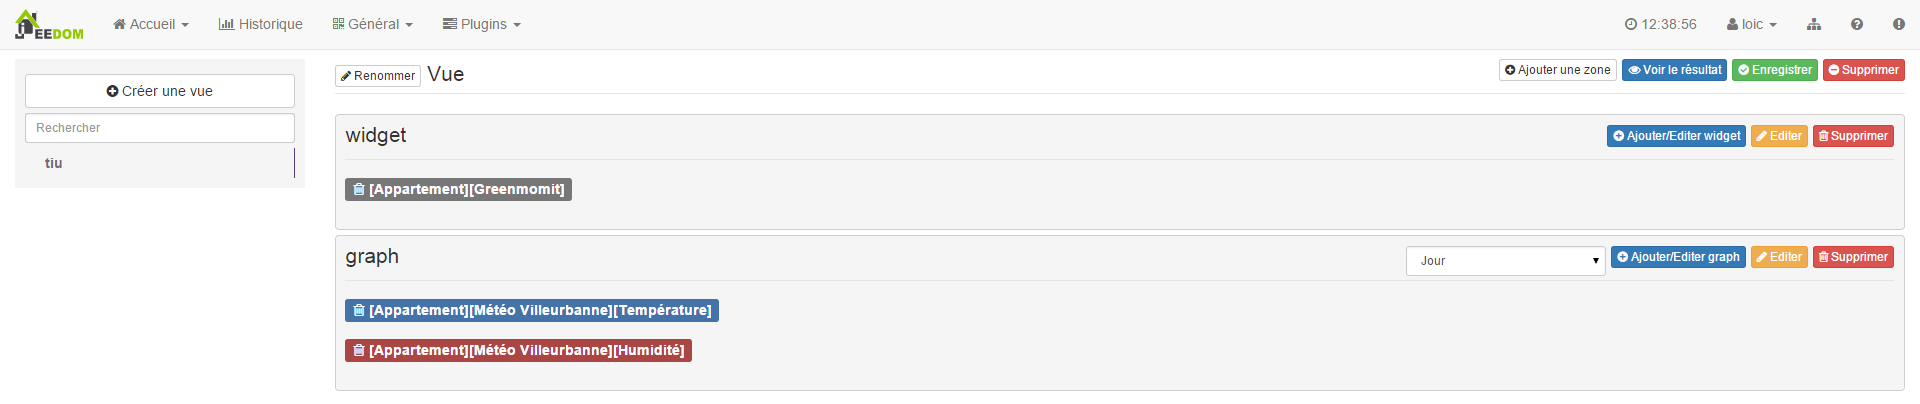
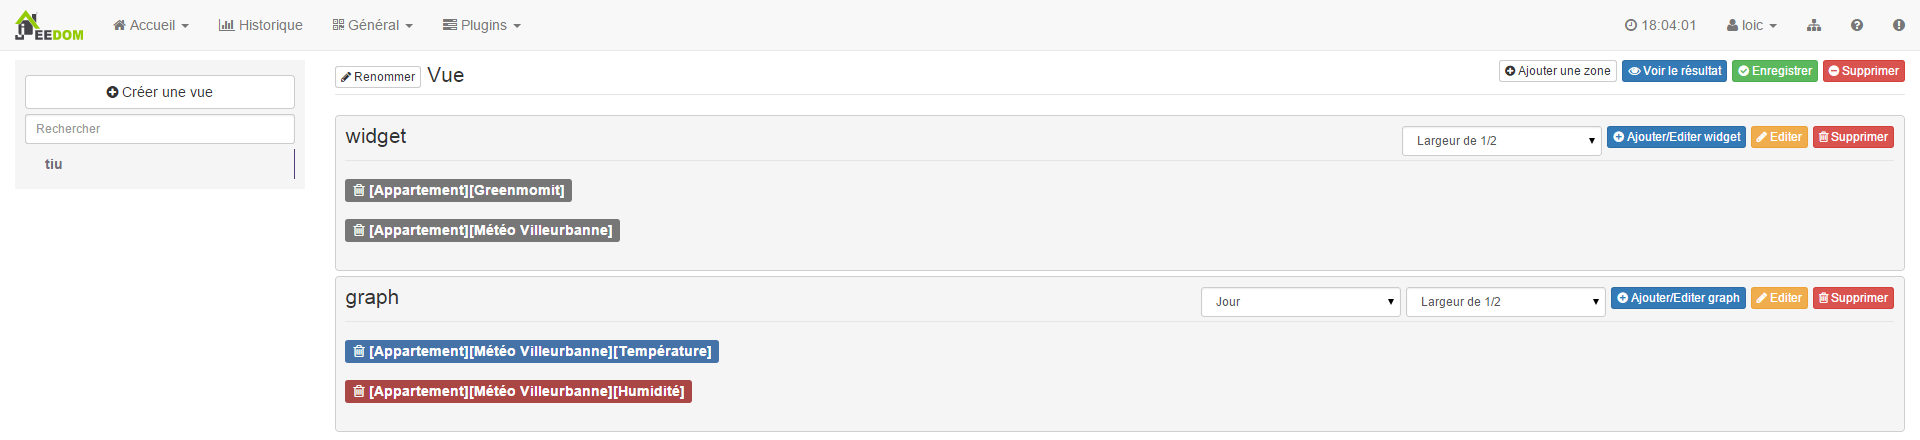
User can configure width zone on view

diff --git a/desktop/js/view_edit.js b/desktop/js/view_edit.js
@@ -289,7 +289,28 @@ function addEditviewZone(_viewZone) {
         div += '<a class="btn btn-danger btn-xs pull-right bt_removeviewZone"><i class="fa fa-trash-o"></i> Supprimer</a>';
         div += ' <a class="btn btn-warning btn-xs pull-right bt_editviewZone"><i class="fa fa-pencil"></i> Editer</a>';
         div += '<a class="btn btn-primary btn-xs pull-right bt_addViewData"><i class="fa fa-plus-circle"></i> Ajouter/Editer ' + init(_viewZone.type, 'widget') + '</a>';
-
+        div += '<select class="pull-right viewZoneAttr form-control input-sm" data-l1key="configuration" data-l2key="zoneCol" style="width : 200px;">';
+        if (init(_viewZone.configuration.zoneCol) == 12) {
+            div += '<option value="12" selected>{{Largeur de 1/1}}</option>';
+        } else {
+            div += '<option value="12">{{Largeur de 1/1}}</option>';
+        }
+        if (init(_viewZone.configuration.zoneCol) == 6) {
+            div += '<option value="6" selected>{{Largeur de 1/2}}</option>';
+        } else {
+            div += '<option value="6">{{Largeur de 1/2}}</option>';
+        }
+        if (init(_viewZone.configuration.zoneCol) == 4) {
+            div += '<option value="4" selected>{{Largeur de 1/3}}</option>';
+        } else {
+            div += '<option value="4">{{Largeur de 1/3}}</option>';
+        }
+         if (init(_viewZone.configuration.zoneCol) == 3) {
+            div += '<option value="3" selected>{{Largeur de 1/4}}</option>';
+        } else {
+            div += '<option value="3">{{Largeur de 1/4}}</option>';
+        }
+        div += '</select>';
         if (init(_viewZone.type, 'widget') == 'graph') {
             div += '<select class="pull-right viewZoneAttr form-control input-sm" data-l1key="configuration" data-l2key="dateRange" style="width : 200px;">';
             if (init(_viewZone.configuration.dateRange) == "30 min") {
@@ -324,7 +345,6 @@ function addEditviewZone(_viewZone) {
             }
             div += '</select>';
         }
-
         div += '</legend>';
         div += '<input style="display : none;" class="viewZoneAttr" data-l1key="type" value="' + init(_viewZone.type) + '">';
         div += '<div class="div_viewData"></div>';

diff --git a/core/js/view.class.js b/core/js/view.class.js
@@ -88,7 +88,7 @@ jeedom.view.handleViewAjax = function (_params) {
     var result = {html: '', scenario: [], cmd: [], eqLogic: []};
     for (var i in _params.view.viewZone) {
         var viewZone = _params.view.viewZone[i];
-        result.html += '<div>';
+        result.html += '<div class="col-xs-'+init(viewZone.configuration.zoneCol,12)+'">';
         result.html += '<legend style="color : #716b7a">' + viewZone.name + '</legend>';
         var div_id = 'div_viewZone' + viewZone.id;
         /*         * *****************viewZone widget***************** */

diff --git a/desktop/php/view.php b/desktop/php/view.php
@@ -35,7 +35,8 @@ if ($_SESSION['user']->getOptions('displayViewByDefault') == 1) {
         <ul id="ul_view" class="nav nav-list bs-sidenav">
             <?php if (hasRight('viewedit', true)) {?>
             <a class="btn btn-default" style="width : 100%;margin-top : 5px;margin-bottom: 5px;" href="index.php?v=d&p=view_edit"><i class="fa fa-plus-circle"></i> {{Ajouter une vue}}</a>
-            <?php }?>
+            <?php }
+?>
             <li class="filter"><input class="filter form-control input-sm" placeholder="{{Rechercher}}" style="width: 100%"/></li>
             <?php
 foreach (view::all() as $view_info) {
@@ -60,8 +61,9 @@ if ($_SESSION['user']->getOptions('displayViewByDefault') == 1) {
 <legend style="height: 35px;color : #563d7c;">Vue <?php
 echo $view->getName();
 if (hasRight('viewedit', true)) {
-	?> <a href="index.php?v=d&p=view_edit&view_id=<?php echo $view->getId();?>" class="btn btn-warning btn-xs pull-right" id="bt_addviewZone"><i class="fa fa-pencil"></i> {{Editer}}</a><?php }?></legend>
-        <div id="div_displayView"></div>
+	?> <a href="index.php?v=d&p=view_edit&view_id=<?php echo $view->getId();?>" class="btn btn-warning btn-xs pull-right" id="bt_addviewZone"><i class="fa fa-pencil"></i> {{Editer}}</a><?php }
+?></legend>
+        <div id="div_displayView" class="row"></div>
     </div>
 
 </div>
